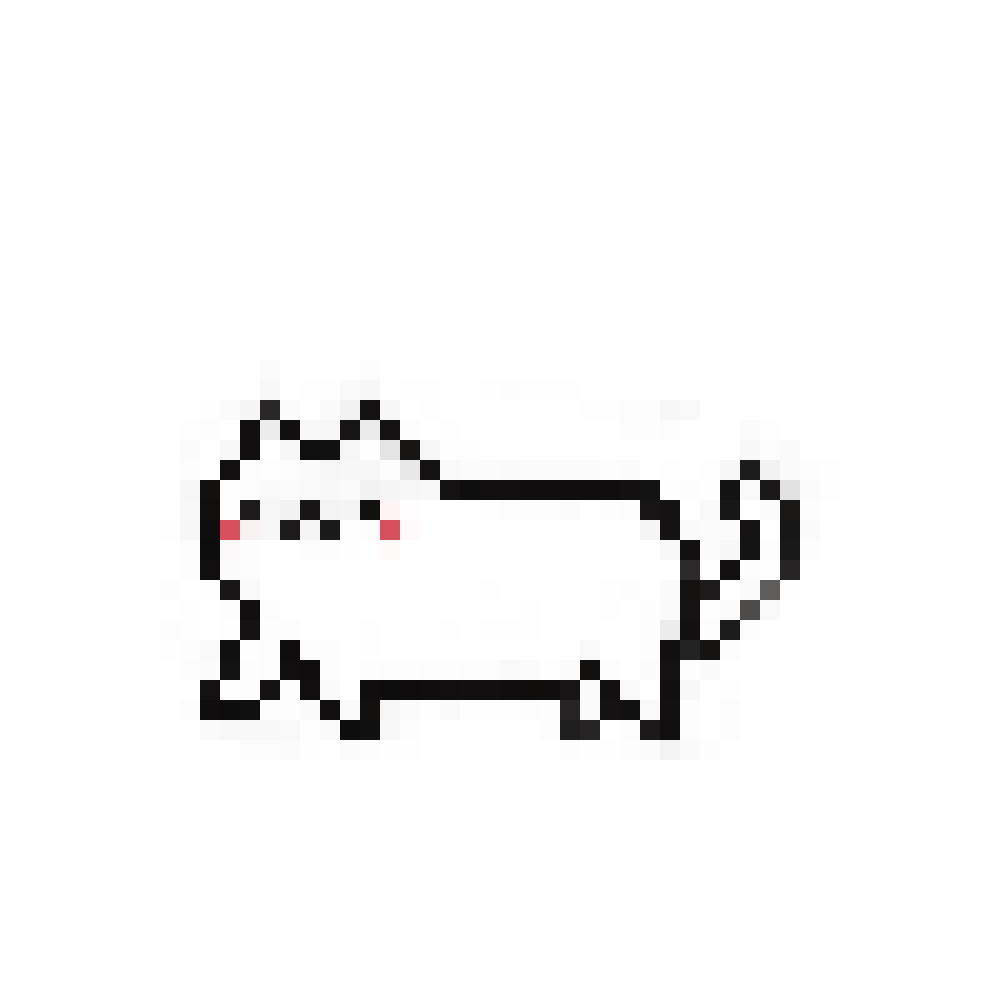
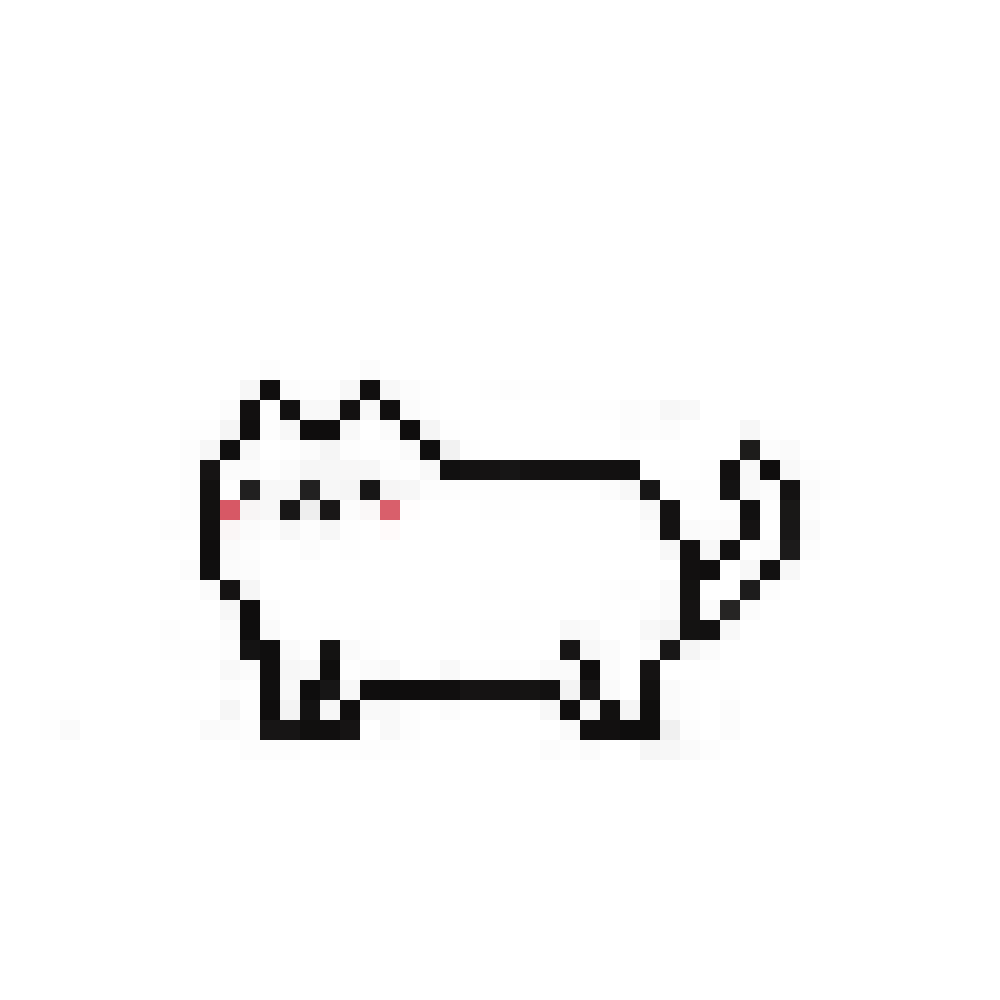
new images
new images

Changed region(s): [[0.186, 0.372, 0.682, 0.558], [0.558, 0.434, 0.806, 0.744], [0.186, 0.62, 0.403, 0.744]]

diff --git a/main_pygame.py b/main_pygame.py
@@ -41,9 +41,10 @@ class Pet(pygame.sprite.Sprite):
         self.rect = self.image.get_rect() # makes the image an interactable sprite object
         self.rect.x = x # pet sprite coordinates
         self.rect.y = y
-        self.speed = 10 # how fast pet moves
-        self.status_list = ["idle","walk","sleep"] # list of behaviours (it's ordered so add new moves
+        self.speed = 8 # how fast pet moves
+        self.status_list = ["idle","walk","sleepb"] # list of behaviours (it's ordered so add new moves
                                                    # at the end of the list)
+        # self.status_list = ["sleepb"]
         self.status = self.status_list[random.randint(0,2)] # idle as default
         self.status_count = 1 # counter for iterating frames after every tick
     
